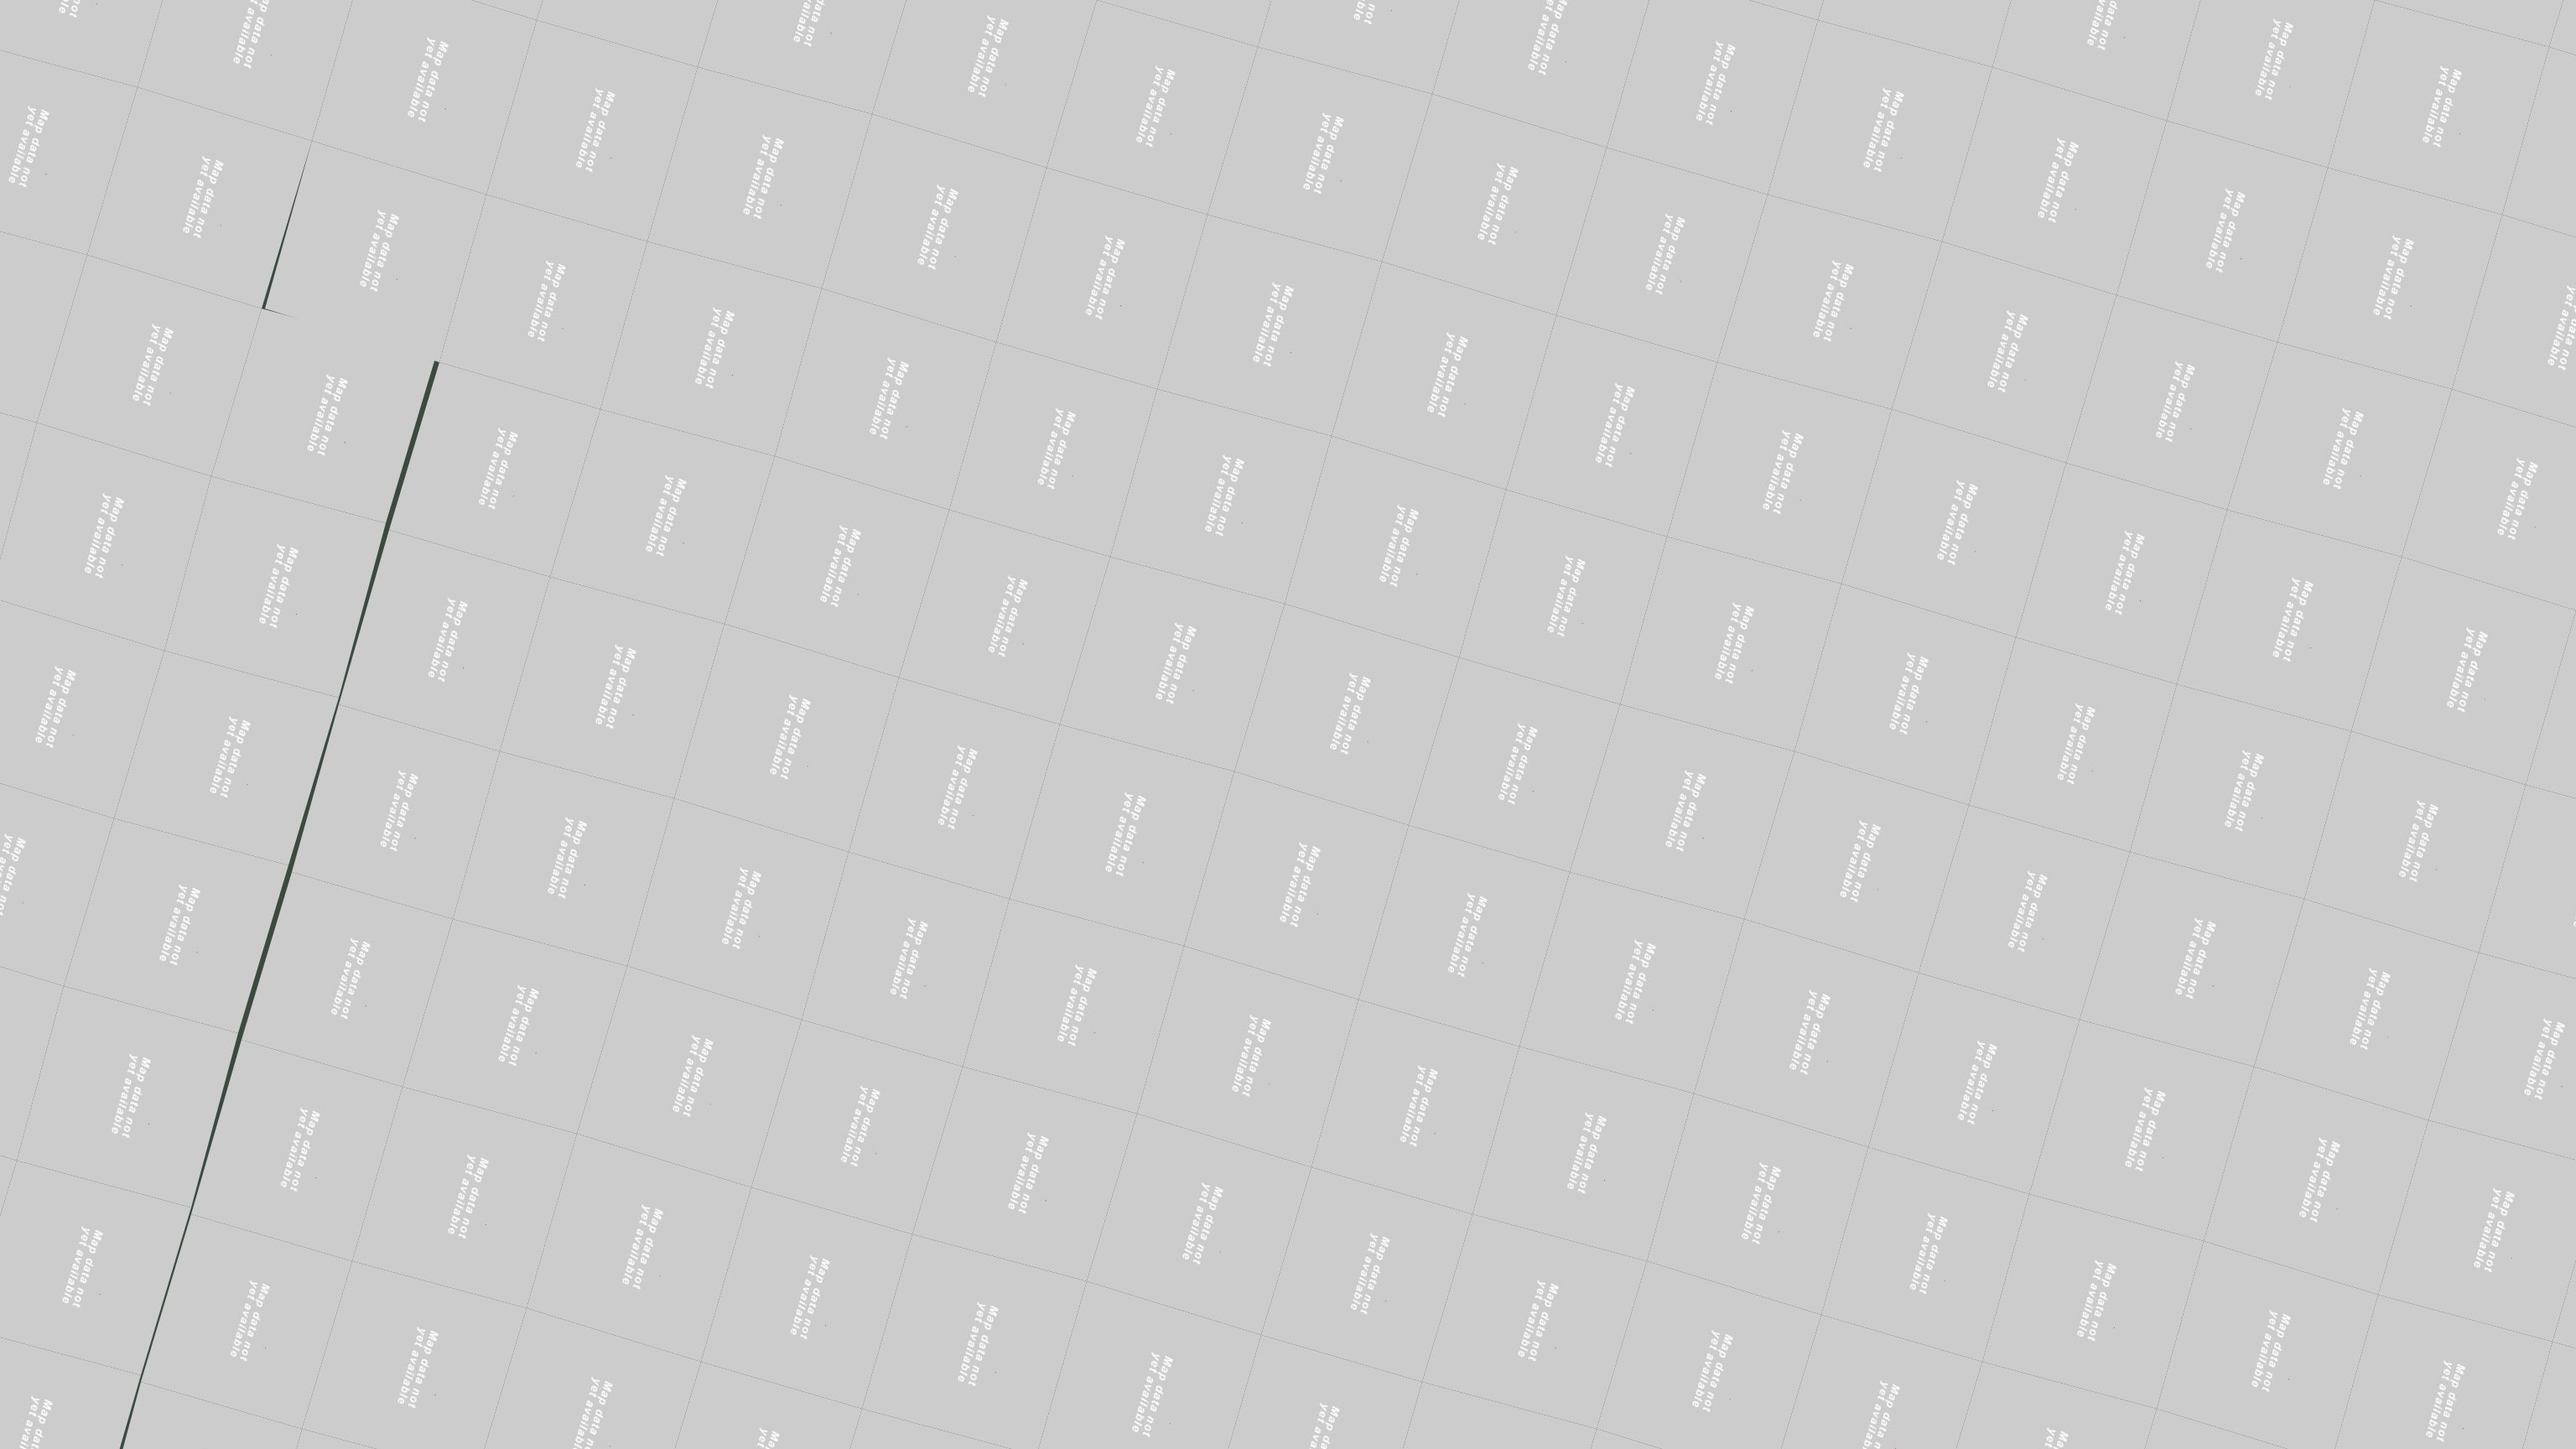
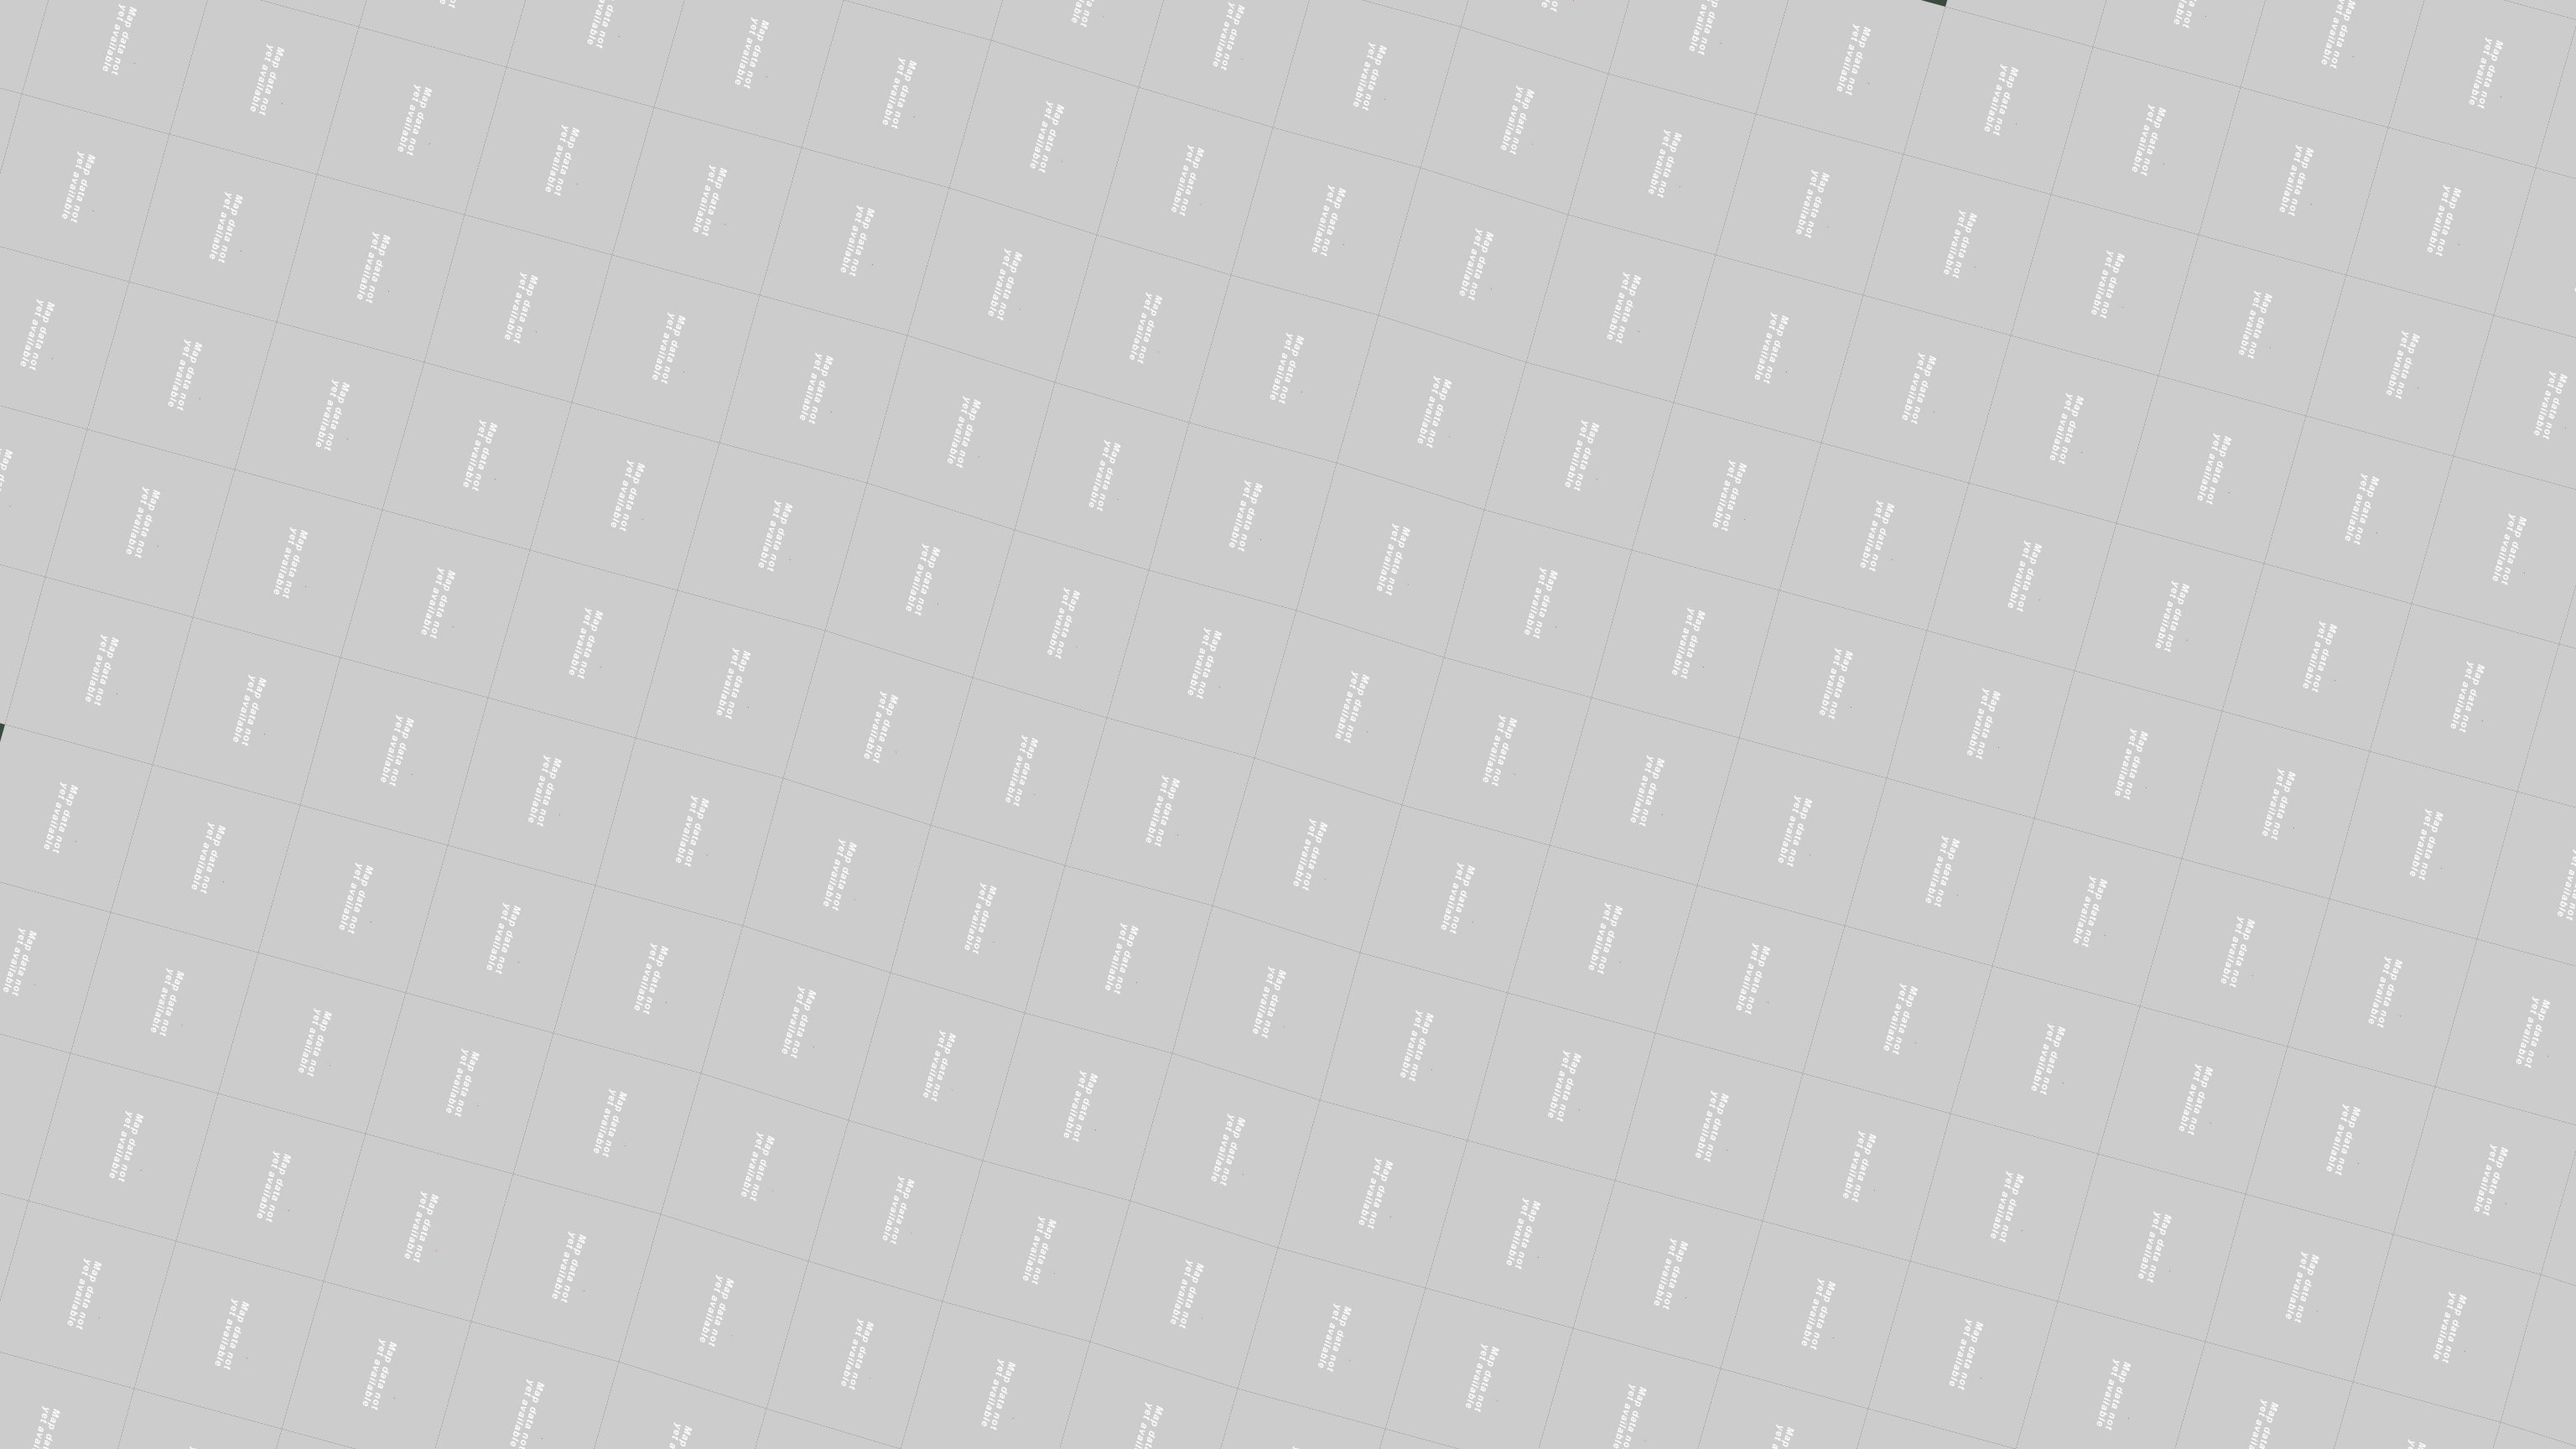
Marshal guide: 17 hole images, 28 stations (+1 image file)

diff --git a/js/holes-data.js b/js/holes-data.js
@@ -1,5 +1,5 @@
 // Hole images and marshal stations.
-// Saved from admin.html on 2026-08-25T16:14:42.771Z
+// Saved from admin.html on 2026-08-25T16:18:24.448Z
 const HOLES_DATA = {
   "east": {
     "name": "Oak Hill East",
@@ -289,19 +289,21 @@ const HOLES_DATA = {
           },
           "bearingNudge": 0,
           "zoomNudge": -0.25,
-          "shots": []
+          "shots": [],
+          "imagery": "esri",
+          "capturedZoom": 21
         },
         "image": {
           "src": "images/holes/east-05.jpg",
-          "width": 1622,
-          "height": 912,
+          "width": 3072,
+          "height": 1728,
           "tee": {
-            "x": 0.14682350559012414,
-            "y": 0.4999999999983387
+            "x": 0.1468235055901241,
+            "y": 0.49999999999833933
           },
           "green": {
-            "x": 0.8531764944032443,
-            "y": 0.49999999999833883
+            "x": 0.8531764944032444,
+            "y": 0.4999999999983395
           },
           "shots": []
         },
